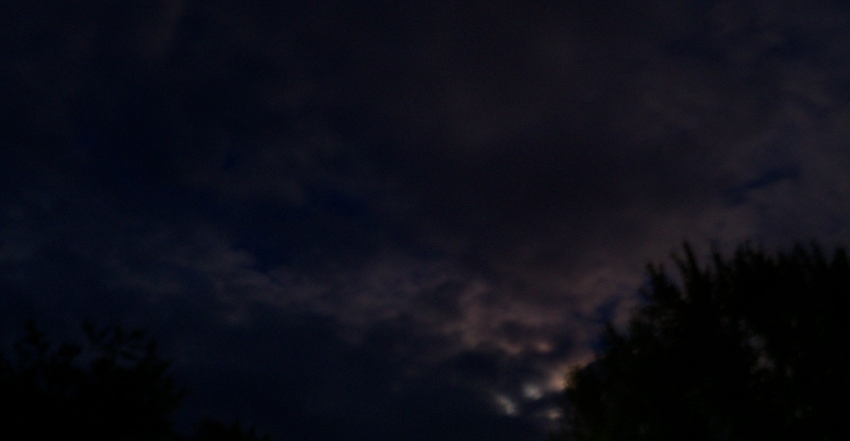
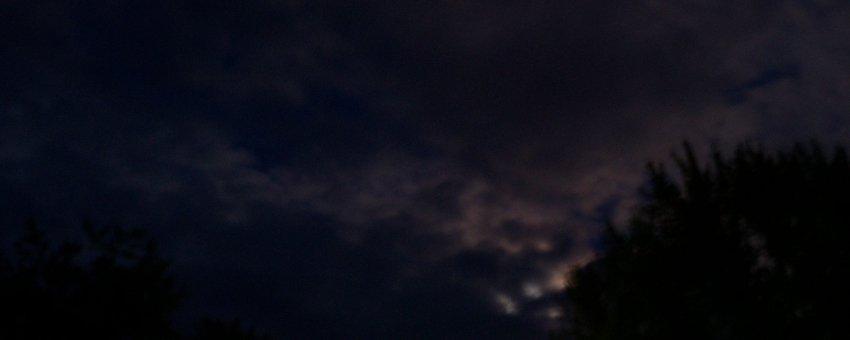
sky.jpg is now 850x340..

diff --git a/public/css/style.css b/public/css/style.css
@@ -36,7 +36,7 @@ img {
 
 #header {
 	background-image: url("/images/sky.jpg");
-	height: 319px;
+	height: 340px;
 }
 
 #content {
